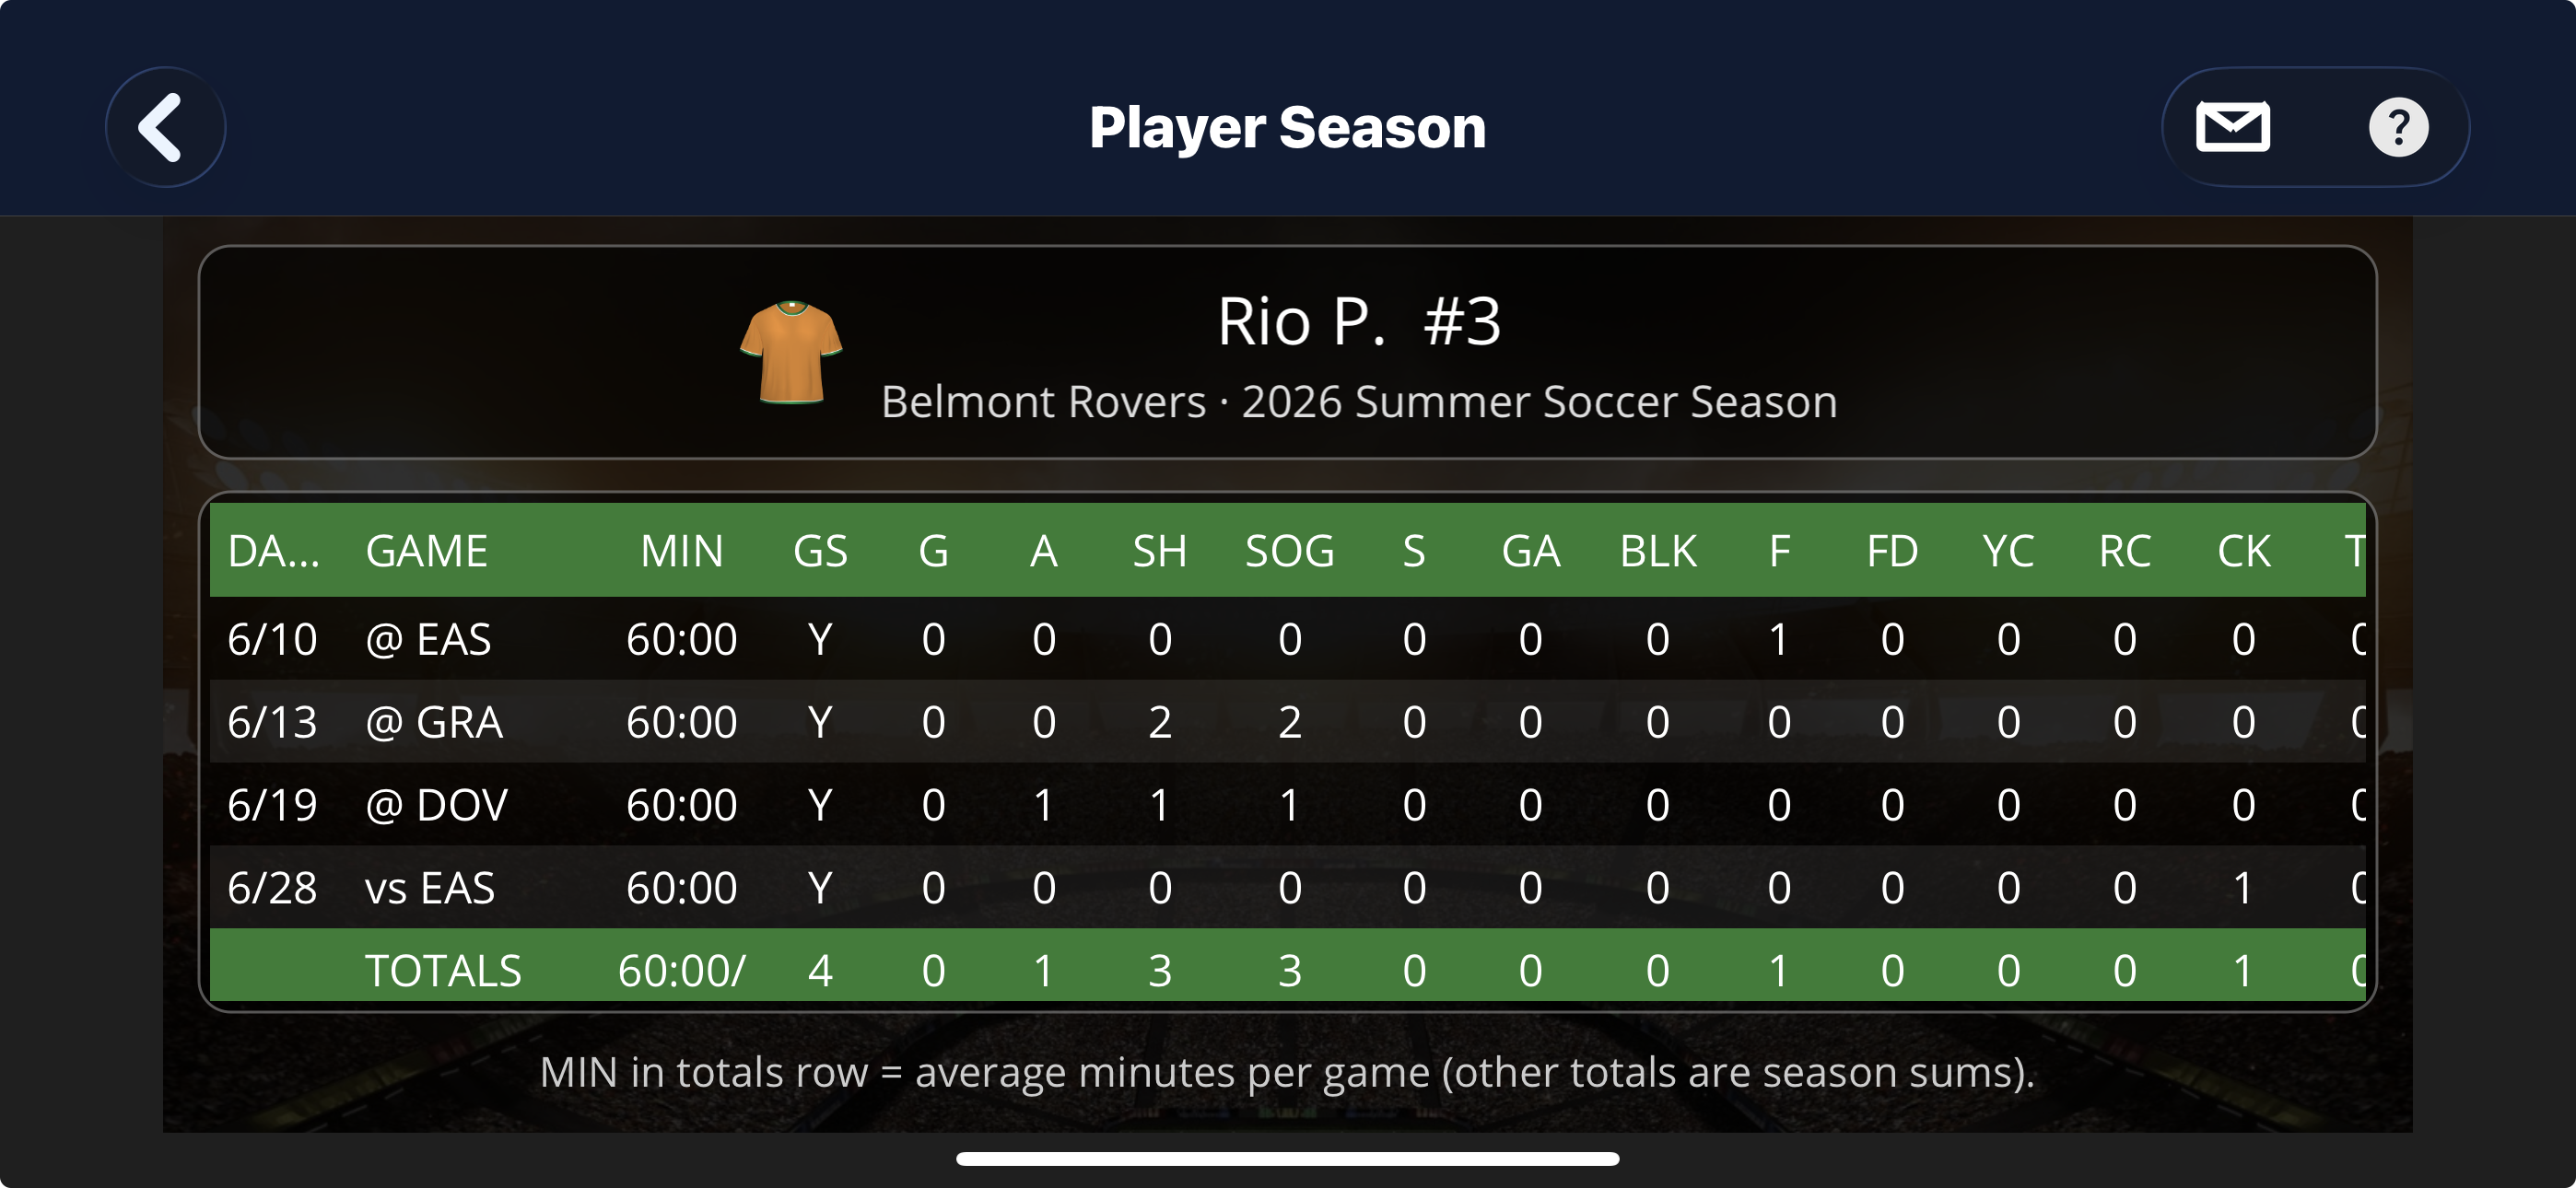
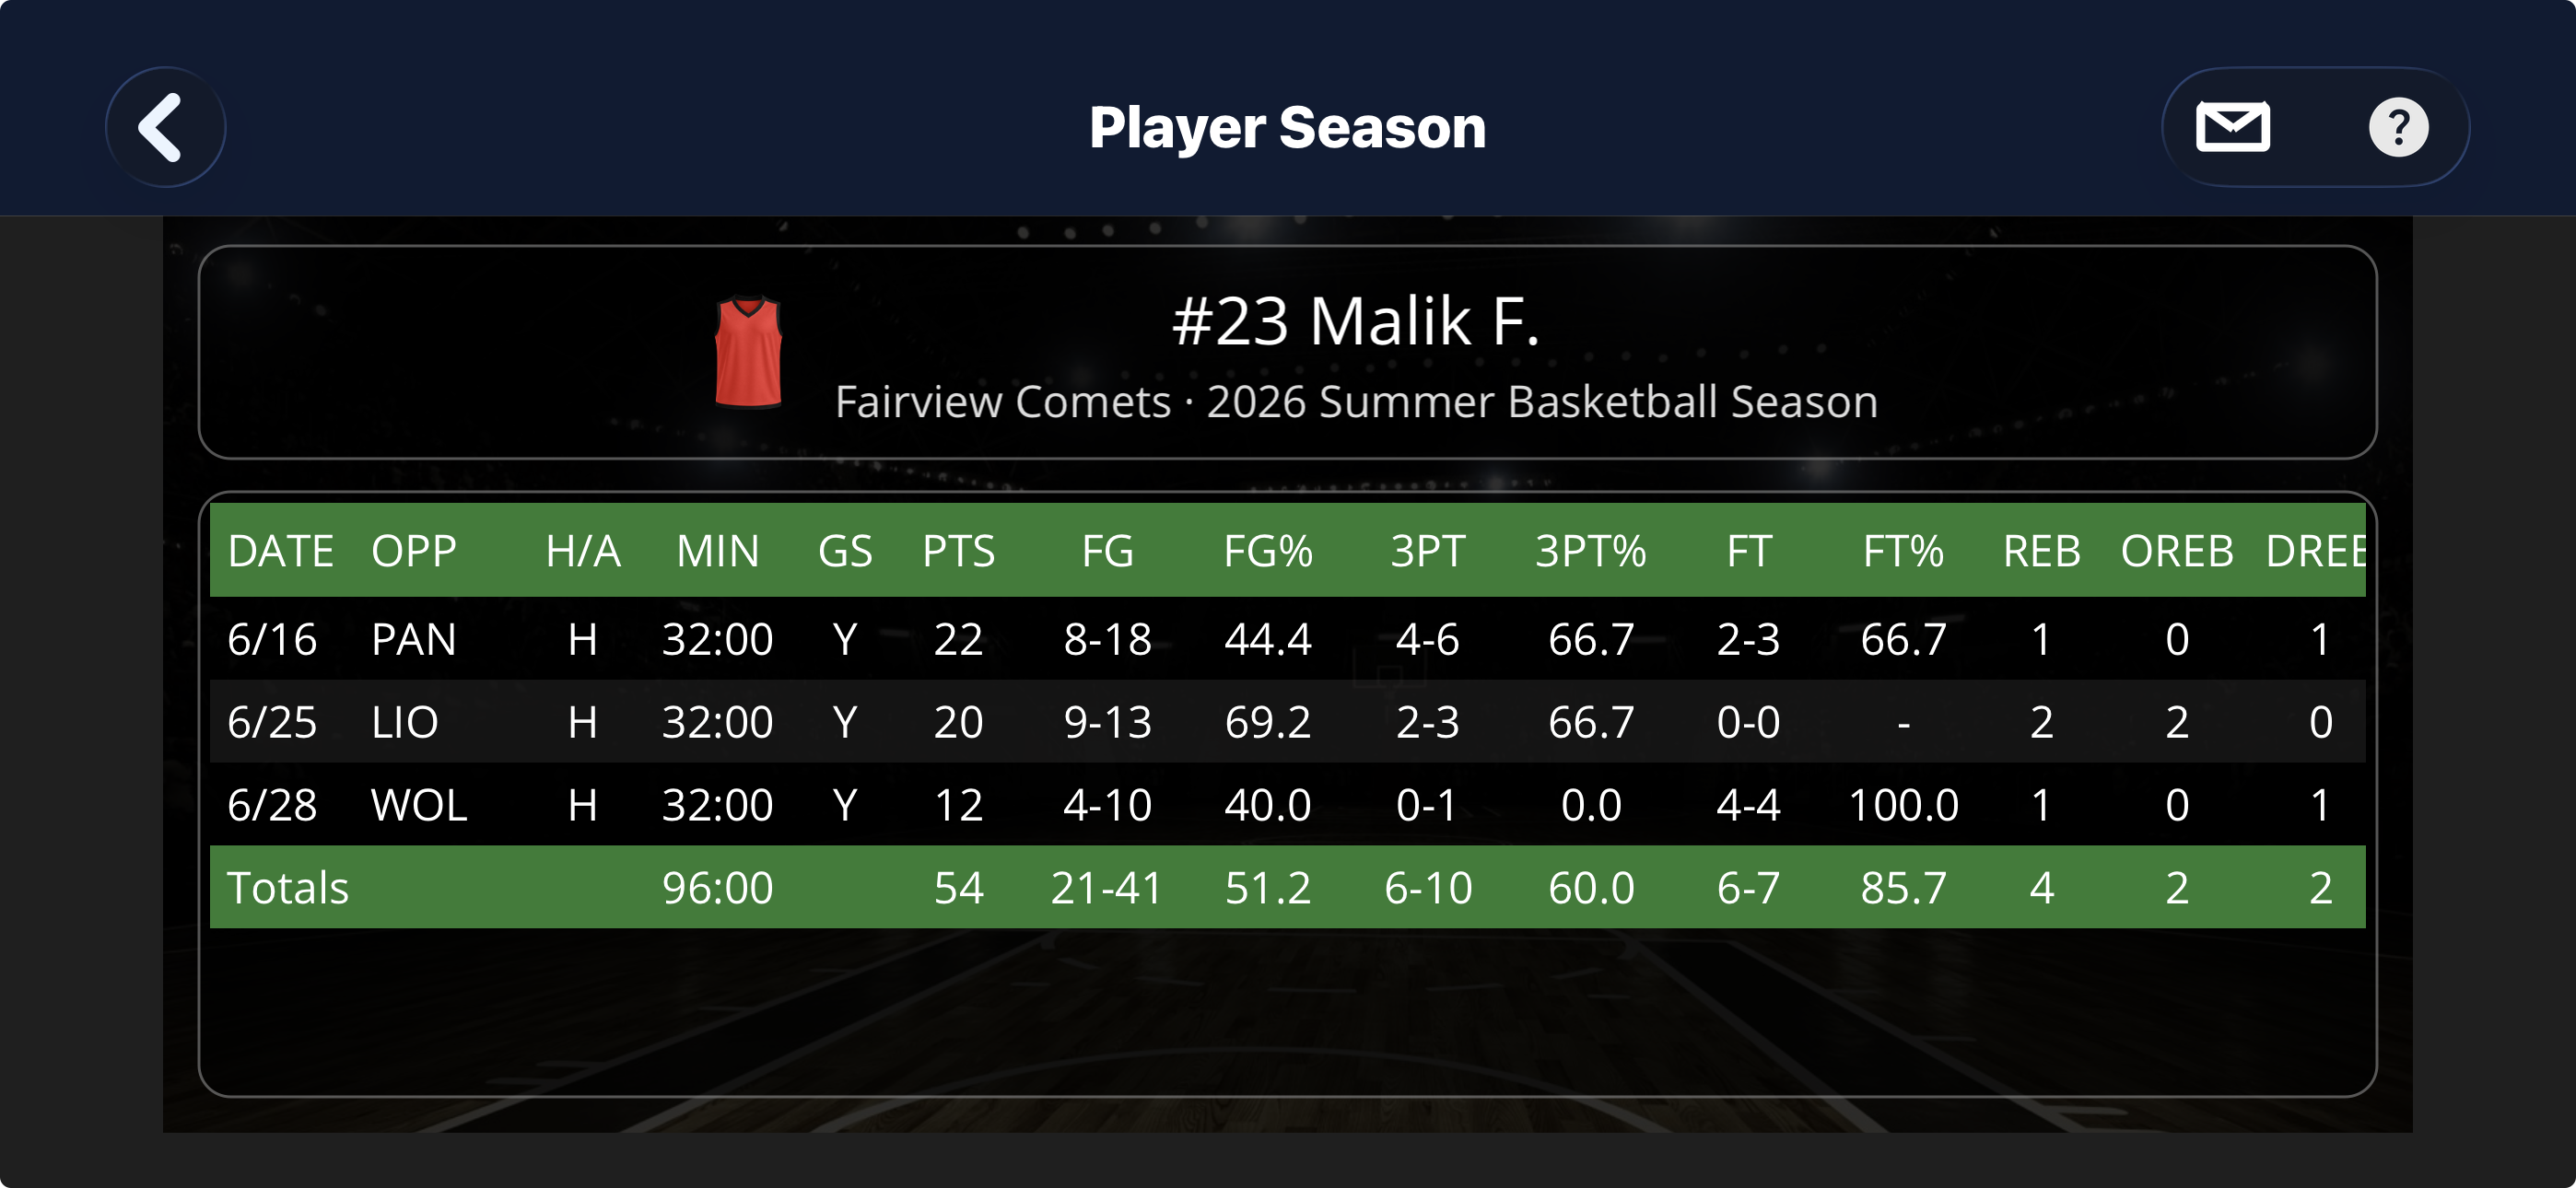
Update team season and player season screenshots; clarify Team Results caption

diff --git a/screenshots.html b/screenshots.html
@@ -134,7 +134,7 @@
       <div class="shot-item">
         <div class="frame"><img src="screenshots/13-team-results.png" alt="Team results screen with game-by-game final scores and scorers"></div>
         <h3>Team Results</h3>
-        <p class="muted">Game-by-game results with final scores and who scored.</p>
+        <p class="muted">Game-by-game results with final scores and who scored (soccer).</p>
       </div>
       <div class="shot-item full">
         <div class="frame"><img src="screenshots/11-team-season.png" alt="Team season totals screen with per-player season stats"></div>